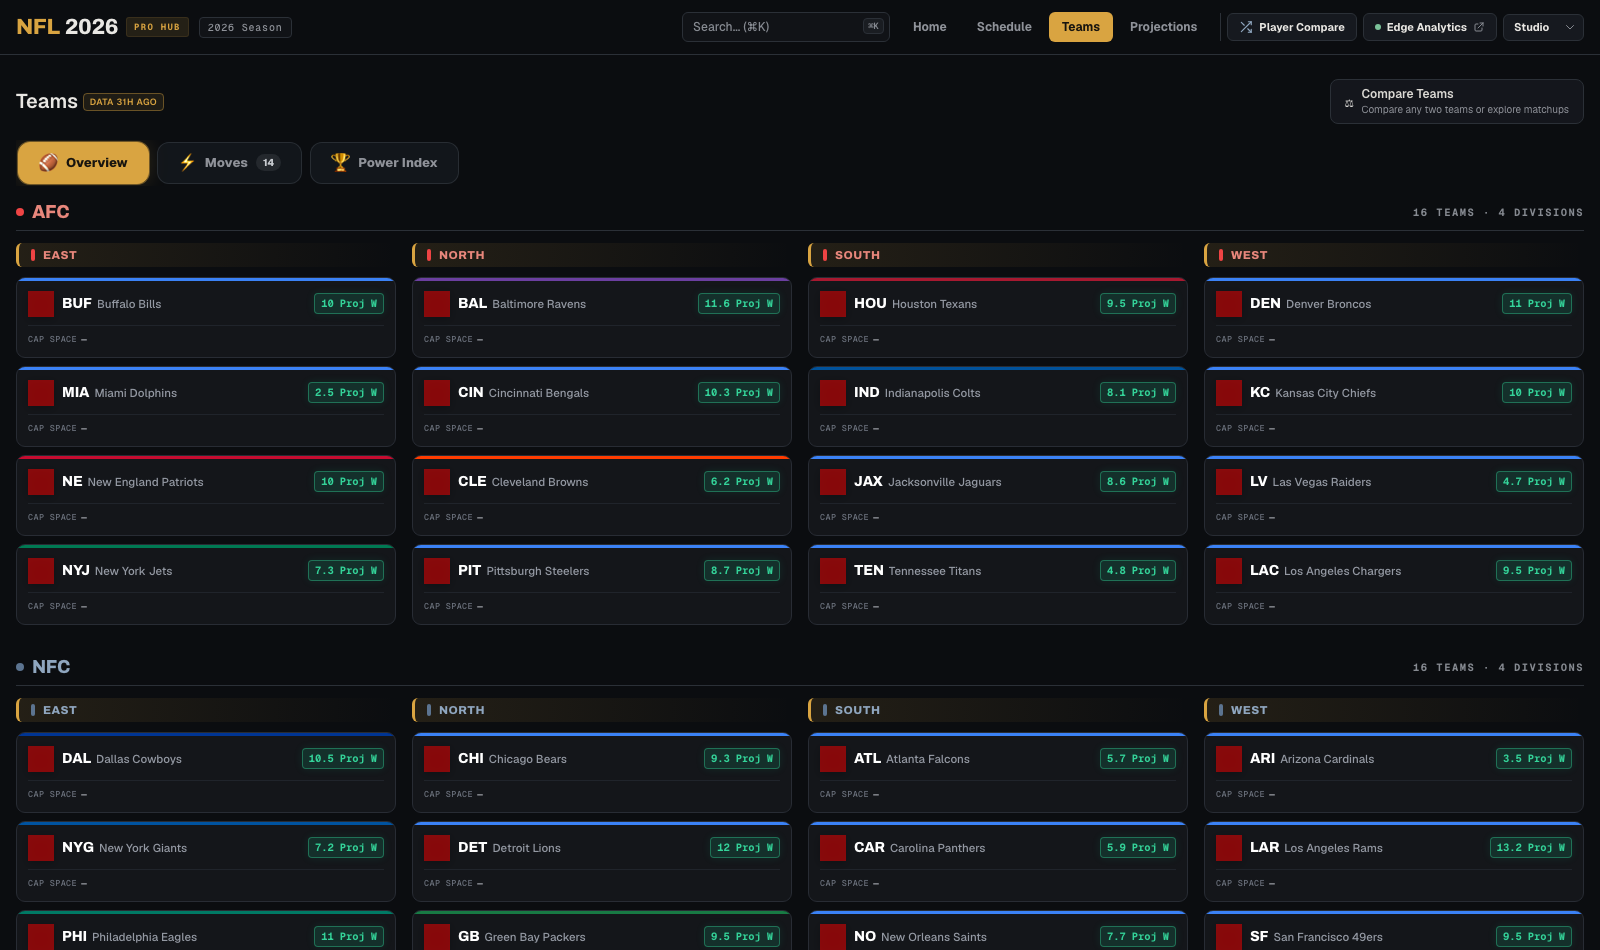
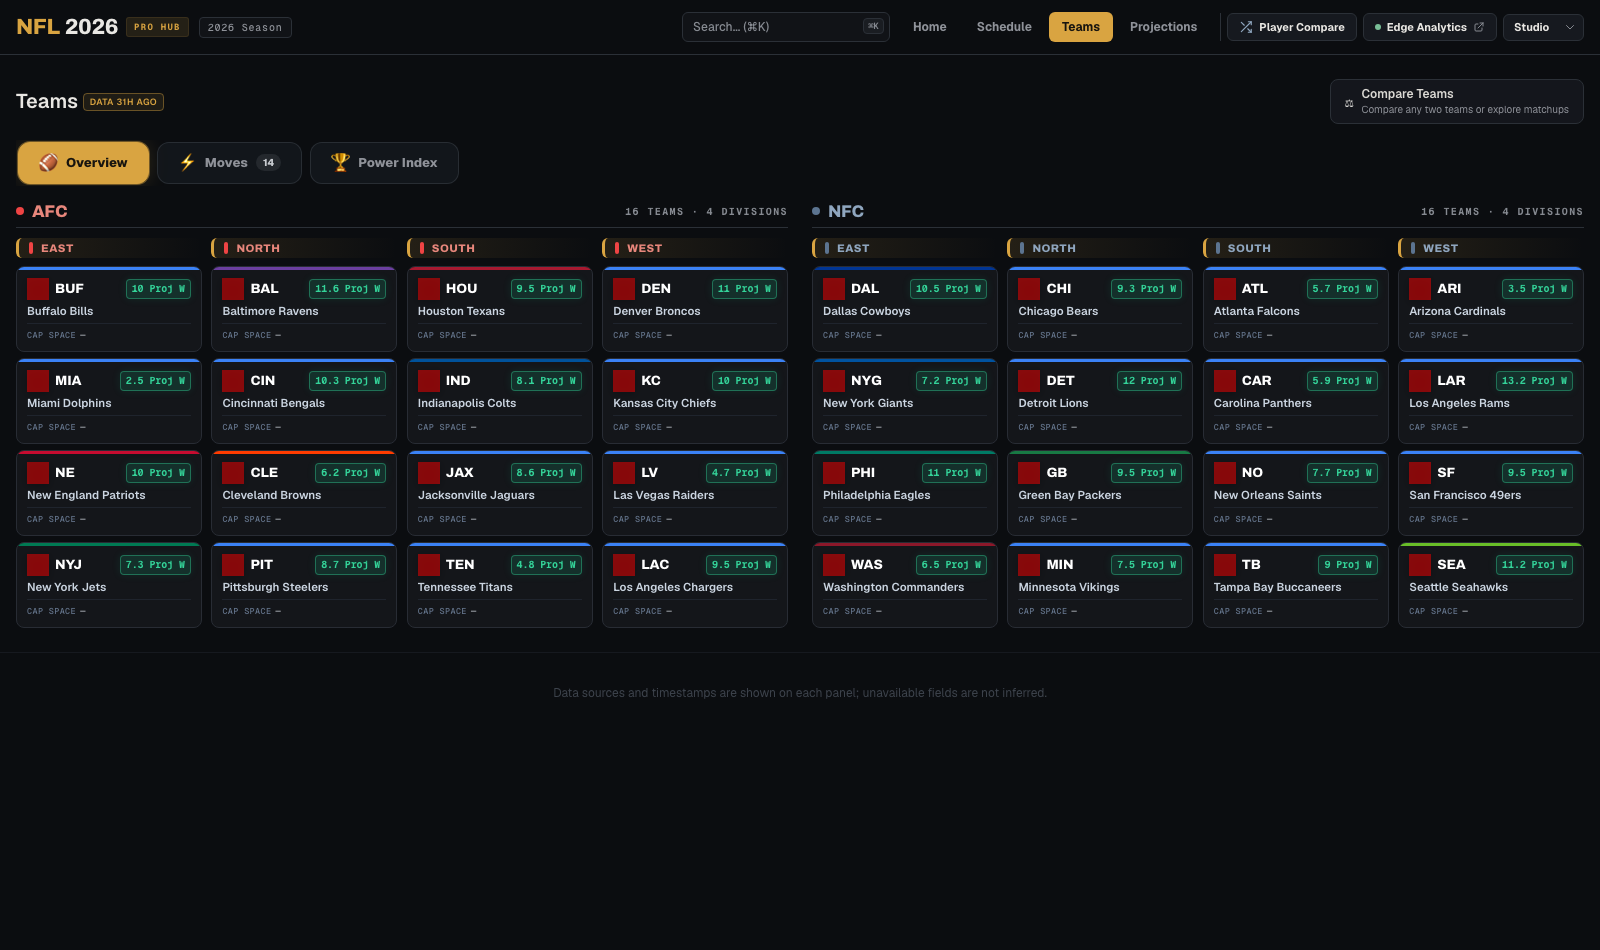
Optimize team card proportions and layout to eliminate wide boxes

diff --git a/index.html b/index.html
@@ -596,7 +596,7 @@ html, body {
 .team-tile {
   background: #14161a;
   border: 1px solid #282c34;
-  border-radius: 9px;
+  border-radius: 8px;
   overflow: hidden;
   position: relative;
   cursor: pointer;
@@ -607,7 +607,7 @@ html, body {
 .team-tile:hover {
   transform: translateY(-2px);
   border-color: #3e4652;
-  box-shadow: 0 8px 22px rgba(0,0,0,0.5);
+  box-shadow: 0 8px 20px rgba(0,0,0,0.5);
 }
 .team-tile.cmp-sel {
   border-color: #d9a441 !important;
@@ -619,69 +619,64 @@ html, body {
   flex-shrink: 0;
 }
 .team-tile-inner {
-  padding: 10px 11px;
+  padding: 8px 10px;
   display: flex;
   flex-direction: column;
-  gap: 8px;
+  gap: 4px;
   flex: 1;
 }
-.team-tile-main {
+.team-tile-row1 {
   display: flex;
   align-items: center;
   justify-content: space-between;
-  gap: 8px;
+  gap: 6px;
 }
-.team-tile-lead {
+.team-tile-brand {
   display: flex;
   align-items: center;
-  gap: 8px;
+  gap: 6px;
   min-width: 0;
 }
 .team-tile-logo {
-  width: 26px;
-  height: 26px;
+  width: 22px;
+  height: 22px;
   object-fit: contain;
-  filter: drop-shadow(0 2px 5px rgba(0,0,0,0.5));
+  filter: drop-shadow(0 2px 4px rgba(0,0,0,0.5));
   flex-shrink: 0;
 }
-.team-tile-names {
-  display: flex;
-  align-items: baseline;
-  gap: 5px;
-  min-width: 0;
-}
 .team-tile-abbr {
-  font: 800 14px/1 'Archivo', sans-serif;
+  font: 800 13.5px/1 'Archivo', sans-serif;
   color: #fff;
   letter-spacing: -0.01em;
 }
-.team-tile-name {
-  font: 500 11.5px 'Geist', sans-serif;
-  color: #9499a3;
-  overflow: hidden;
-  text-overflow: ellipsis;
-  white-space: nowrap;
-}
 .team-tile-stat {
-  font-size: 10.5px;
+  font-size: 10px;
   font-weight: 800;
   color: #34d399;
   background: rgba(16, 185, 129, 0.16);
   border: 1px solid rgba(52, 211, 153, 0.4);
   box-shadow: 0 0 8px rgba(16, 185, 129, 0.12);
   border-radius: 4px;
-  padding: 2px 6px;
+  padding: 1.5px 5px;
   white-space: nowrap;
   flex-shrink: 0;
   letter-spacing: -0.01em;
+}
+.team-tile-name {
+  font: 600 11.5px/1.2 'Geist', sans-serif;
+  color: #cbd5e1;
+  white-space: nowrap;
+  overflow: hidden;
+  text-overflow: ellipsis;
 }
 .team-tile-meta {
   display: flex;
   align-items: center;
   justify-content: space-between;
-  border-top: 1px solid #20242b;
-  padding-top: 6px;
-  font-size: 10px;
+  border-top: 1px solid #1f242d;
+  padding-top: 4px;
+  margin-top: 2px;
+  font-size: 9.5px;
   color: #868a91;
   gap: 6px;
 }
@@ -691,35 +686,44 @@ html, body {
   gap: 4px;
 }
 .team-tile-cap-lbl {
-  color: #6c727d;
+  color: #64748b;
   font-size: 8.5px;
   text-transform: uppercase;
   letter-spacing: 0.04em;
 }
 
 .conf-split {
-  display: flex;
-  flex-direction: column;
-  gap: 2rem;
+  display: grid;
+  grid-template-columns: 1fr 1fr;
+  gap: 1.5rem;
+}
+@media (max-width: 1240px) {
+  .conf-split {
+    grid-template-columns: 1fr;
+    gap: 2rem;
+    max-width: 1060px;
+    margin: 0 auto;
+  }
 }
 .conf-block {
   width: 100%;
+  min-width: 0;
 }
 .divisions-cols-grid {
   display: grid;
   grid-template-columns: repeat(4, minmax(0, 1fr));
-  gap: 1rem;
+  gap: 0.6rem;
 }
-@media(max-width: 1200px) {
+@media (max-width: 768px) {
   .divisions-cols-grid {
     grid-template-columns: repeat(2, minmax(0, 1fr));
-    gap: 1.25rem;
+    gap: 0.75rem;
   }
 }
-@media(max-width: 640px) {
+@media (max-width: 480px) {
   .divisions-cols-grid {
     grid-template-columns: 1fr;
-    gap: 1rem;
+    gap: 0.6rem;
   }
 }
 
@@ -4018,16 +4022,14 @@ function renderTeams(){
     return `<div class="team-tile" id="tile-${abbr}" onclick="compareModeActive?selectForCompare('${tEsc}'):openRoster('${tEsc}')">
       <div class="team-tile-rail" style="background:${color}"></div>
       <div class="team-tile-inner">
-        <div class="team-tile-main">
-          <div class="team-tile-lead">
+        <div class="team-tile-row1">
+          <div class="team-tile-brand">
             <img src="${logo}" alt="${homeEsc(abbr)}" class="team-tile-logo" loading="lazy">
-            <div class="team-tile-names">
-              <span class="team-tile-abbr">${abbr}</span>
-              <span class="team-tile-name">${homeEsc(team)}</span>
-            </div>
+            <span class="team-tile-abbr">${abbr}</span>
           </div>
           ${winsLabel ? `<span class="team-tile-stat font-mono">${homeEsc(winsLabel)}</span>` : ''}
         </div>
+        <div class="team-tile-name">${homeEsc(team)}</div>
         <div class="team-tile-meta font-mono">
           <span class="team-tile-cap"><span class="team-tile-cap-lbl">Cap Space</span> <b class="${capClass}">${capLabel}</b></span>
         </div>
@@ -4037,26 +4039,26 @@ function renderTeams(){
 
   const renderConf=(confDivs,confName,colorCls)=>{
     let col=`<div class="conf-block">
-      <div class="conf-head" style="display:flex;align-items:center;justify-content:space-between;margin-bottom:12px;padding-bottom:8px;border-bottom:1px solid #2b3037">
+      <div class="conf-head" style="display:flex;align-items:center;justify-content:space-between;margin-bottom:10px;padding-bottom:6px;border-bottom:1px solid #2b3037">
         <div class="flex items-center gap-2">
           <span class="w-2 h-2 rounded-full" style="background:${confName === 'AFC' ? '#ef4444' : '#5c7490'}"></span>
-          <span style="font:800 18px 'Archivo',sans-serif;letter-spacing:-0.02em" class="${colorCls}">${confName}</span>
+          <span style="font:800 17px 'Archivo',sans-serif;letter-spacing:-0.02em" class="${colorCls}">${confName}</span>
         </div>
-        <span class="studio-kicker" style="color:#868a91;font-size:10.5px">16 TEAMS · 4 DIVISIONS</span>
+        <span class="studio-kicker" style="color:#868a91;font-size:10px">16 TEAMS · 4 DIVISIONS</span>
       </div>
       <div class="divisions-cols-grid">`;
     for(const[divName,teams] of confDivs){
       const divId='div-'+divName.replace(/ /g,'-').toLowerCase();
       const divShort = divName.replace(/AFC |NFC /,'');
       col+=`<div class="division-col">
-        <div id="${divId}" class="division-header rounded-md px-3 py-1.5 mb-2.5 flex items-center justify-between">
+        <div id="${divId}" class="division-header rounded-md px-2.5 py-1 mb-2 flex items-center justify-between">
           <div class="flex items-center gap-2">
             <span class="w-1 h-3 rounded-full" style="background:${confName === 'AFC' ? '#ef4444' : '#5c7490'}"></span>
-            <h3 style="font:800 11.5px 'Archivo',sans-serif;letter-spacing:0.04em;text-transform:uppercase" class="${colorCls}">${divShort}</h3>
+            <h3 style="font:800 11px 'Archivo',sans-serif;letter-spacing:0.04em;text-transform:uppercase" class="${colorCls}">${divShort}</h3>
           </div>
         </div>
         <div class="division-content">
-          <div class="division-grid flex flex-col gap-2">
+          <div class="division-grid flex flex-col gap-1.5">
             ${teams.map(renderTile).join('')}
           </div>
         </div>

diff --git a/STATE.md b/STATE.md
@@ -7,12 +7,12 @@
 
 ## Shipped recently
 
-- Refined the Teams overview page for desktop display and visual hierarchy:
-  - Redesigned conference layout into a 4-column division architecture (`.divisions-cols-grid`) where each division (East, North, South, West) has its own vertical stack of team cards, removing horizontal stretching.
-  - Sized team cards with balanced padding (`10px 11px`), 26px drop-shadowed logos, clear typography, and breathing room.
-  - Relocated Compare to the top right header slot with descriptive subtext ("Compare any two teams or explore matchups").
-  - Made division headers static with conference color pills.
-  - Kept draft assets inside the roster modal and out of the overview tiles.
+- Refined Teams overview proportions and layout:
+  - Eliminated wide letterbox team cards by transitioning desktop viewports (`>= 1240px`) to a side-by-side conference architecture (`.conf-split: grid-template-columns: 1fr 1fr`).
+  - Reduced individual team tile width from ~380px down to ~186px with an 86px height (~2.1:1 ratio), providing natural sports tile proportions with zero dead space.
+  - Re-architected tile interior: Row 1 pairs the team logo and bold abbreviation on the left with the model projected wins badge on the right; Row 2 displays the full team name with clean typography without truncating long names; Row 3 provides the cap space footer.
+  - Enables viewing all 32 NFL teams across all 8 divisions simultaneously on desktop without vertical scrolling.
+  - Collapses responsively on smaller viewports with constrained container widths.
   - Verified with `python3 test_all_extensions.py` (32 passing checks, 0 console errors) and `node scripts/validate-data.js` (16/16 assets pass).
 
 - Aligned Home marquee game cards and the Teams page with the Schedule card design system:
